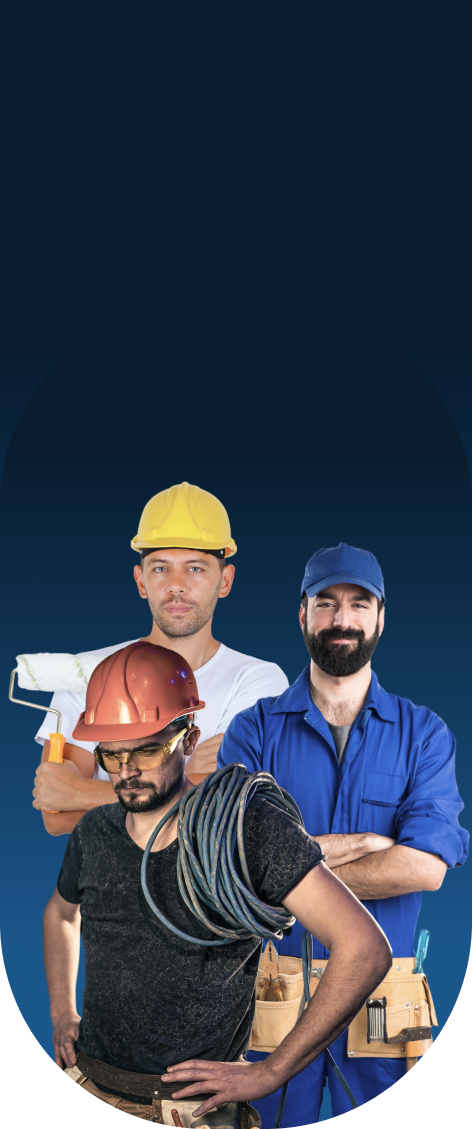
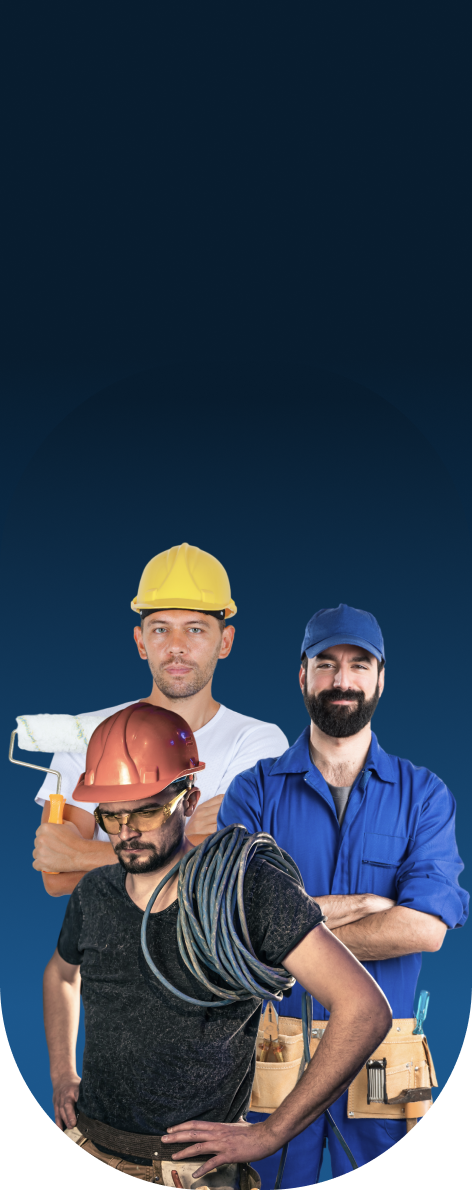
img

diff --git a/styles.css b/styles.css
@@ -234,20 +234,19 @@ img {
   .intro__text {
     display: flex;
     text-align: center;
-    width: 45%;
-    transform: translate(0%,40%);
+    width: 75%;
     color: black;
-    position: relative;
+   
     letter-spacing: 0;
     letter-spacing: 0;
     font-weight: var(--titulos-font-weight);
     font-family: var(--titulos-font-family);
-    font-size: var(--titulos-font-size-700);
+    font-size: 2rem;
   }
 
   .elipse{
     display: flex;
-    width:40vw;
+    width:30%;
     height: fit-content;
     transform: translate(13%,50%);
     position: relative;
@@ -260,13 +259,13 @@ img {
     width:100%;
     min-height:100vh;
     background-image: url(img/Home/Fundo\ home.png);
+    background-position-x:43%;
     align-items: center;
-    background-position: center;
+   
     background-size: cover;
     position: relative;
     display: flex;
-    justify-content: center;
-
+    justify-items: center;
   }
 
 }
